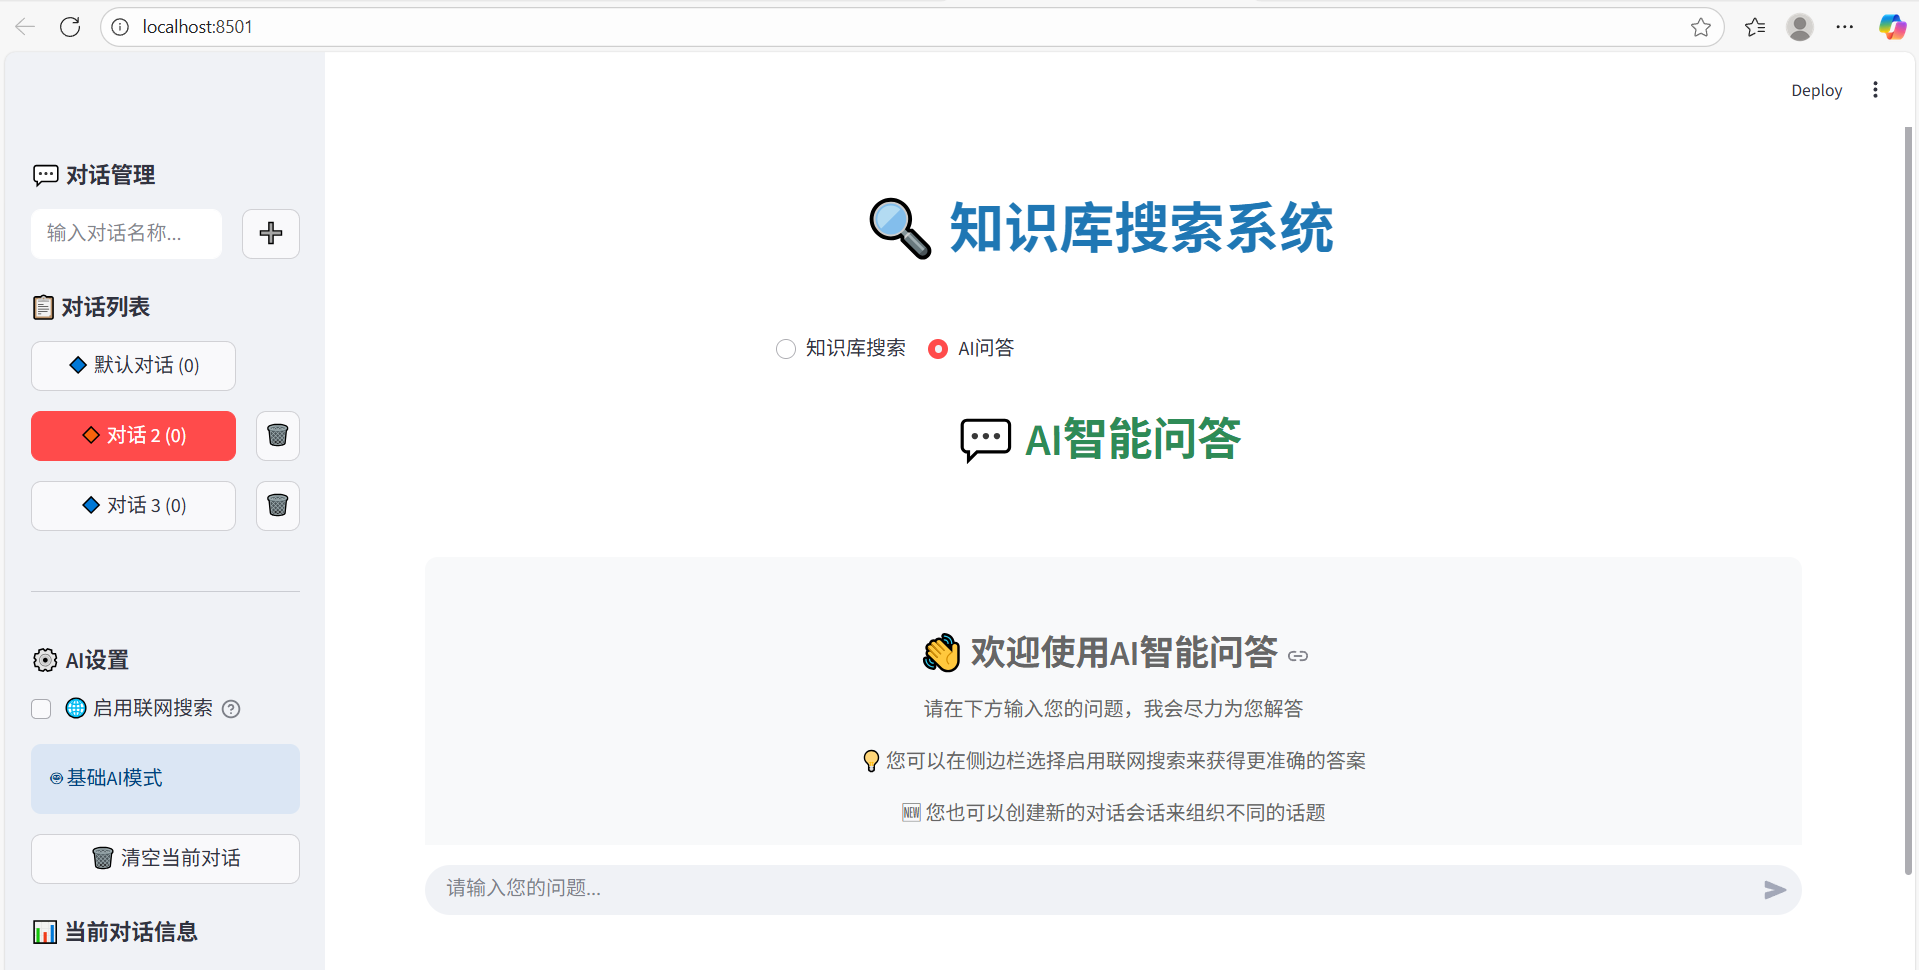
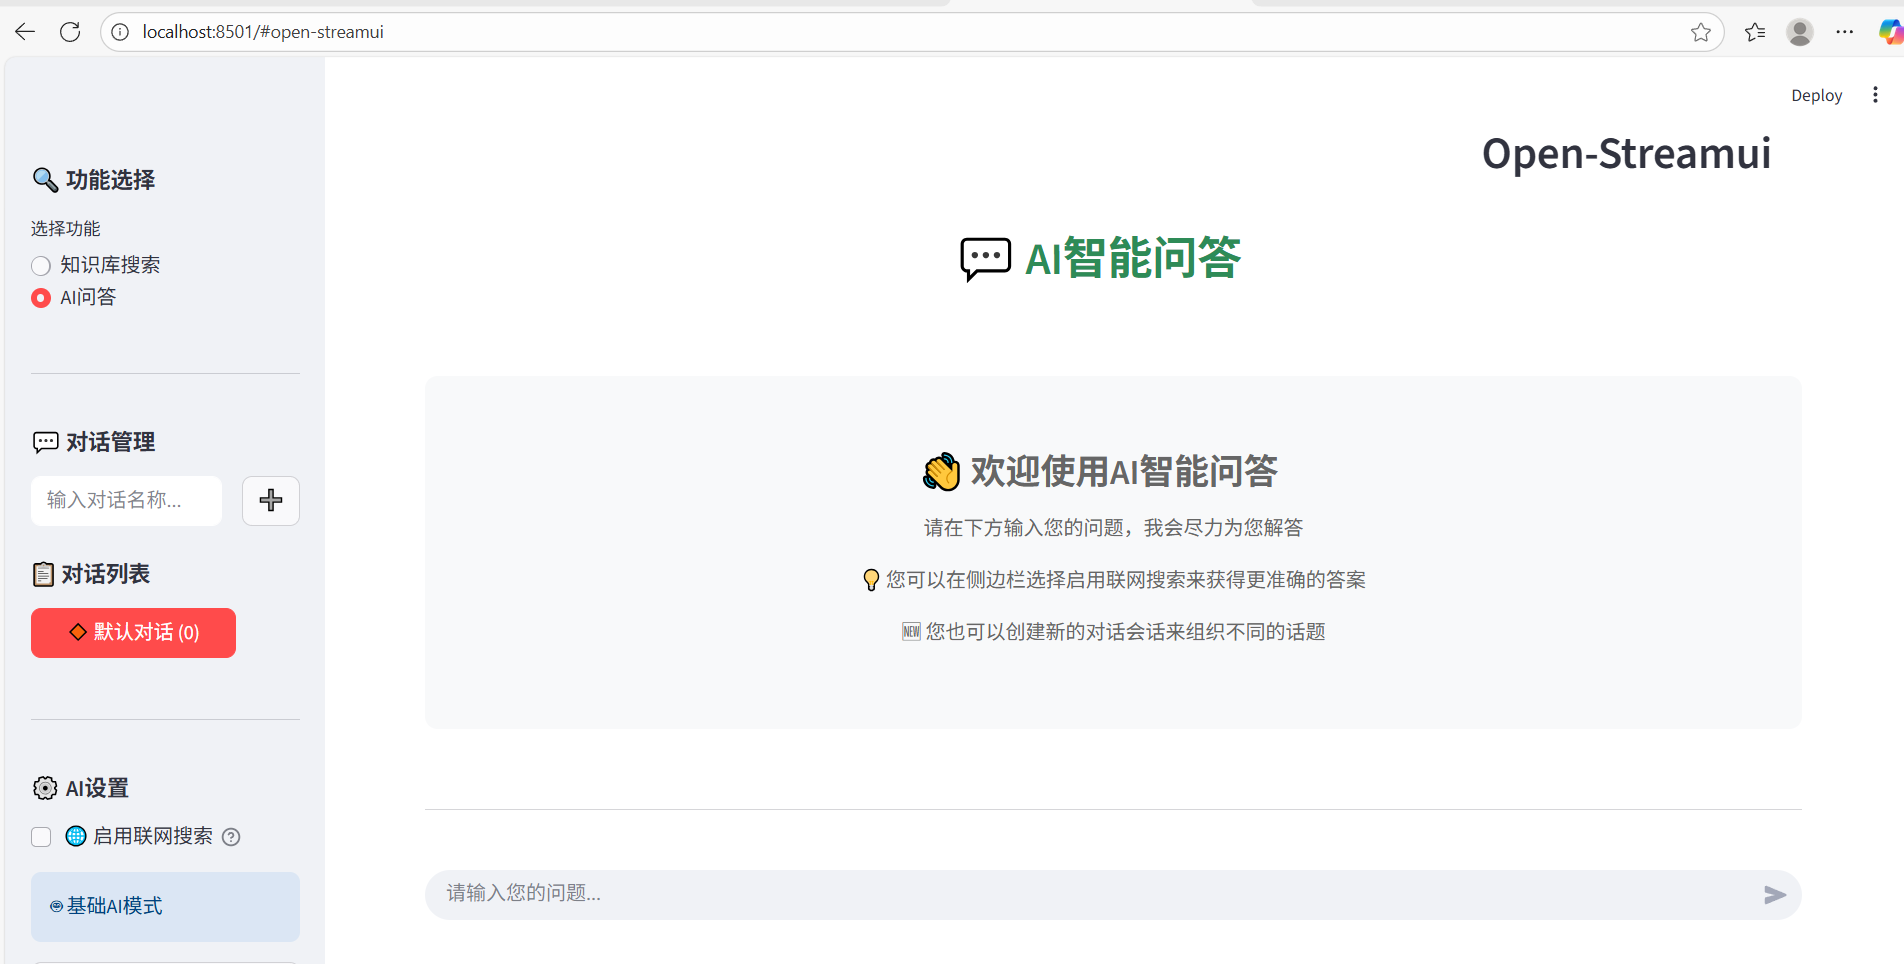
1

diff --git a/knowledge_search_app.py b/knowledge_search_app.py
@@ -30,7 +30,7 @@ class KnowledgeSearchApp:
     def _init_session_state(self):
         """初始化会话状态"""
         if 'current_page' not in st.session_state:
-            st.session_state.current_page = "知识库搜索"
+            st.session_state.current_page = "AI问答"
         if 'chat_history' not in st.session_state:
             st.session_state.chat_history = []
         if 'use_web_search' not in st.session_state:
@@ -48,8 +48,8 @@ class KnowledgeSearchApp:
         """运行应用主程序"""
         # 设置页面配置
         st.set_page_config(
-            page_title="知识库搜索系统",
-            page_icon="🔍",
+            page_title="Open-Streamui",
+            page_icon="",
             layout="wide",
             initial_sidebar_state="expanded"  # 展开侧边栏，与知识库搜索保持一致
         )
@@ -65,9 +65,30 @@ class KnowledgeSearchApp:
     
     def _render_navigation(self):
         """渲染页面导航"""
-        # 居中显示标题
+        # 使用容器和CSS实现右上角标题
         st.markdown(
-            "<h1 style='text-align: center; color: #1f77b4; margin-bottom: 2rem;'>🔍 知识库搜索系统</h1>", 
+            """
+            <style>
+            .title-container {
+                display: flex;
+                justify-content: flex-end;
+                margin-top: -50px;
+                margin-bottom: 10px;
+                position: relative;
+                z-index: 100;
+            }
+            .app-title {
+                color: #1f77b4;
+                font-size: 24px;
+                font-weight: bold;
+                margin: 0;
+                padding: 5px 10px;
+            }
+            </style>
+            <div class="title-container">
+                <h2 class="app-title">Open-Streamui</h2>
+            </div>
+            """, 
             unsafe_allow_html=True
         )
     
@@ -83,7 +104,7 @@ class KnowledgeSearchApp:
         with st.sidebar:
             # 页面模式选择
             st.markdown("### 🔍 功能选择")
-            page_options = ["知识库搜索", "AI问答"]
+            page_options = ["AI问答", "知识库搜索"]
             selected_page = st.radio(
                 "选择功能",
                 page_options,
@@ -103,15 +124,46 @@ class KnowledgeSearchApp:
             self.ui_components.render_sidebar()
         )
         
-        # 渲染主界面
-        search_query, search_btn = self.ui_components.render_main_interface()
+        # 创建搜索结果容器
+        results_container = st.container()
         
-        # 处理搜索逻辑
-        if search_btn:
-            self._handle_search(
-                search_query, knowledge_base, top_k, semantic_ratio,
-                search_time_placeholder, result_count_placeholder
+        # 在搜索结果容器中显示欢迎信息
+        with results_container:
+            st.markdown("""
+            <div style='text-align: center; padding: 3rem; color: #666; background-color: #f8f9fa; 
+                        border-radius: 10px; margin: 2rem 0;'>
+                <h3>👋 欢迎使用知识库搜索</h3>
+                <p>请在下方输入搜索关键词，我会为您在知识库中查找相关内容</p>
+                <p>💡 您可以在侧边栏调整搜索参数来获得更精准的结果</p>
+                <p>🔍 支持关键词搜索和语义搜索，系统会自动进行智能匹配</p>
+            </div>
+            """, unsafe_allow_html=True)
+        
+        # 将搜索输入框放在最下面
+        st.markdown("---")
+        st.markdown("### 搜索")
+        
+        # 搜索输入框和按钮在同一行
+        col1, col2 = st.columns([4, 1])
+        with col1:
+            search_query = st.text_input(
+                "请输入搜索关键词", 
+                value="AI", 
+                help="支持关键词、短语搜索，系统会自动进行语义理解",
+                label_visibility="collapsed"
             )
+        with col2:
+            search_btn = st.button("搜索", type="primary", use_container_width=True)
+        
+        # 处理搜索逻辑并在结果容器中显示
+        if search_btn:
+            # 清空容器并显示搜索结果
+            results_container.empty()
+            with results_container:
+                self._handle_search(
+                    search_query, knowledge_base, top_k, semantic_ratio,
+                    search_time_placeholder, result_count_placeholder
+                )
     
     def _render_chat_page(self):
         """渲染AI问答页面"""
@@ -128,8 +180,10 @@ class KnowledgeSearchApp:
         current_session = st.session_state.current_chat_session
         current_history = st.session_state.chat_sessions.get(current_session, [])
         
-        # 显示对话历史
+        # 创建对话历史容器
         chat_container = st.container()
+        
+        # 显示对话历史
         with chat_container:
             # 如果没有对话历史，显示欢迎信息
             if not current_history:
@@ -203,7 +257,8 @@ class KnowledgeSearchApp:
                             elif search_info.get("search_failed"):
                                 st.caption("⚠ 网络搜索失败，使用AI基础知识回答")
         
-        # 用户输入
+        # 将用户输入框放在最下面
+        st.markdown("---")
         user_input = st.chat_input("请输入您的问题...")
         
         if user_input:
@@ -214,25 +269,26 @@ class KnowledgeSearchApp:
                 "timestamp": datetime.now()
             })
             
-            # 显示用户消息
-            with st.chat_message("user"):
-                st.write(user_input)
-            
-            # 生成AI回答
-            with st.chat_message("assistant"):
-                with st.spinner("AI正在思考中..."):
-                    response_data = self._generate_ai_response(user_input, st.session_state.use_web_search)
+            # 在对话容器中显示用户消息
+            with chat_container:
+                with st.chat_message("user"):
+                    st.write(user_input)
                 
-                # 显示AI回答
-                st.write(response_data["response"])
-                
-                # 显示搜索信息
-                if response_data.get("search_info"):
-                    search_info = response_data["search_info"]
-                    if search_info.get("used_search"):
-                        st.caption(f"🌐 已使用网络搜索: {search_info.get('query', '')}")
-                    elif search_info.get("search_failed"):
-                        st.caption("⚠ 网络搜索失败，使用AI基础知识回答")
+                # 生成AI回答
+                with st.chat_message("assistant"):
+                    with st.spinner("AI正在思考中..."):
+                        response_data = self._generate_ai_response(user_input, st.session_state.use_web_search)
+                    
+                    # 显示AI回答
+                    st.write(response_data["response"])
+                    
+                    # 显示搜索信息
+                    if response_data.get("search_info"):
+                        search_info = response_data["search_info"]
+                        if search_info.get("used_search"):
+                            st.caption(f"🌐 已使用网络搜索: {search_info.get('query', '')}")
+                        elif search_info.get("search_failed"):
+                            st.caption("⚠ 网络搜索失败，使用AI基础知识回答")
             
             # 添加AI回答到当前会话
             st.session_state.chat_sessions[current_session].append({
@@ -250,7 +306,7 @@ class KnowledgeSearchApp:
         with st.sidebar:
             # 页面模式选择
             st.markdown("### 🔍 功能选择")
-            page_options = ["知识库搜索", "AI问答"]
+            page_options = ["AI问答", "知识库搜索"]
             selected_page = st.radio(
                 "选择功能",
                 page_options,

diff --git a/ui_components.py b/ui_components.py
@@ -67,20 +67,14 @@ class UIComponents:
     
     def render_main_interface(self):
         """
-        渲染搜索界面
+        渲染搜索界面（已废弃，保留兼容性）
         
         Returns:
             tuple: (搜索查询, 搜索按钮状态)
         """
-        # 搜索界面布局
-        search_query = st.text_input(
-            "请输入搜索关键词", 
-            value="AI", 
-            help="支持关键词、短语搜索，系统会自动进行语义理解"
-        )
-        search_btn = st.button("搜索", type="primary")
-        
-        return search_query, search_btn
+        # 这个方法已经被主程序中的新布局替代
+        # 保留此方法仅为向后兼容
+        return "", False
     
     def update_search_status(self, search_time_placeholder, result_count_placeholder, 
                            duration_ms, result_count):
